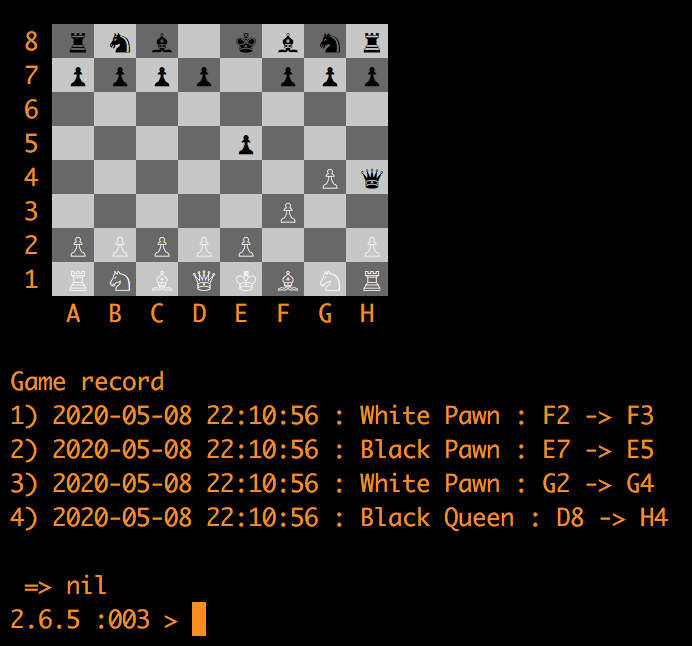
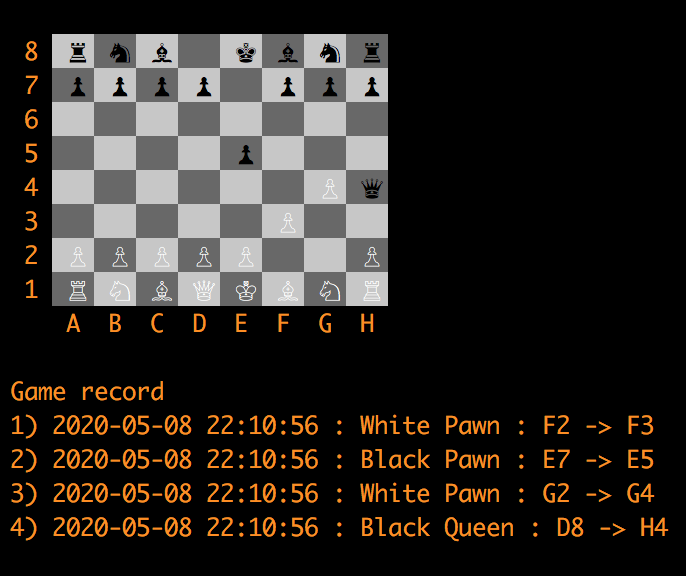
Updates chessboard backgrounds (#7)

Changed region(s): [[0.0, 0.0312, 0.9796, 1.0], [0.8878, 0.9062, 0.9796, 0.9375]]

diff --git a/app/services/draw_board.rb b/app/services/draw_board.rb
@@ -2,7 +2,7 @@
 
 # Service object that draws board in console just for debugging purposes
 class DrawBoard
-  BACKGROUNDS = %i[light_black white].freeze
+  BACKGROUNDS = %i[white light_black].freeze
 
   CHESSMEN = {
     white: { king: '♔', queen: '♕', rook: '♖', bishop: '♗', knight: '♘', pawn: '♙' },
